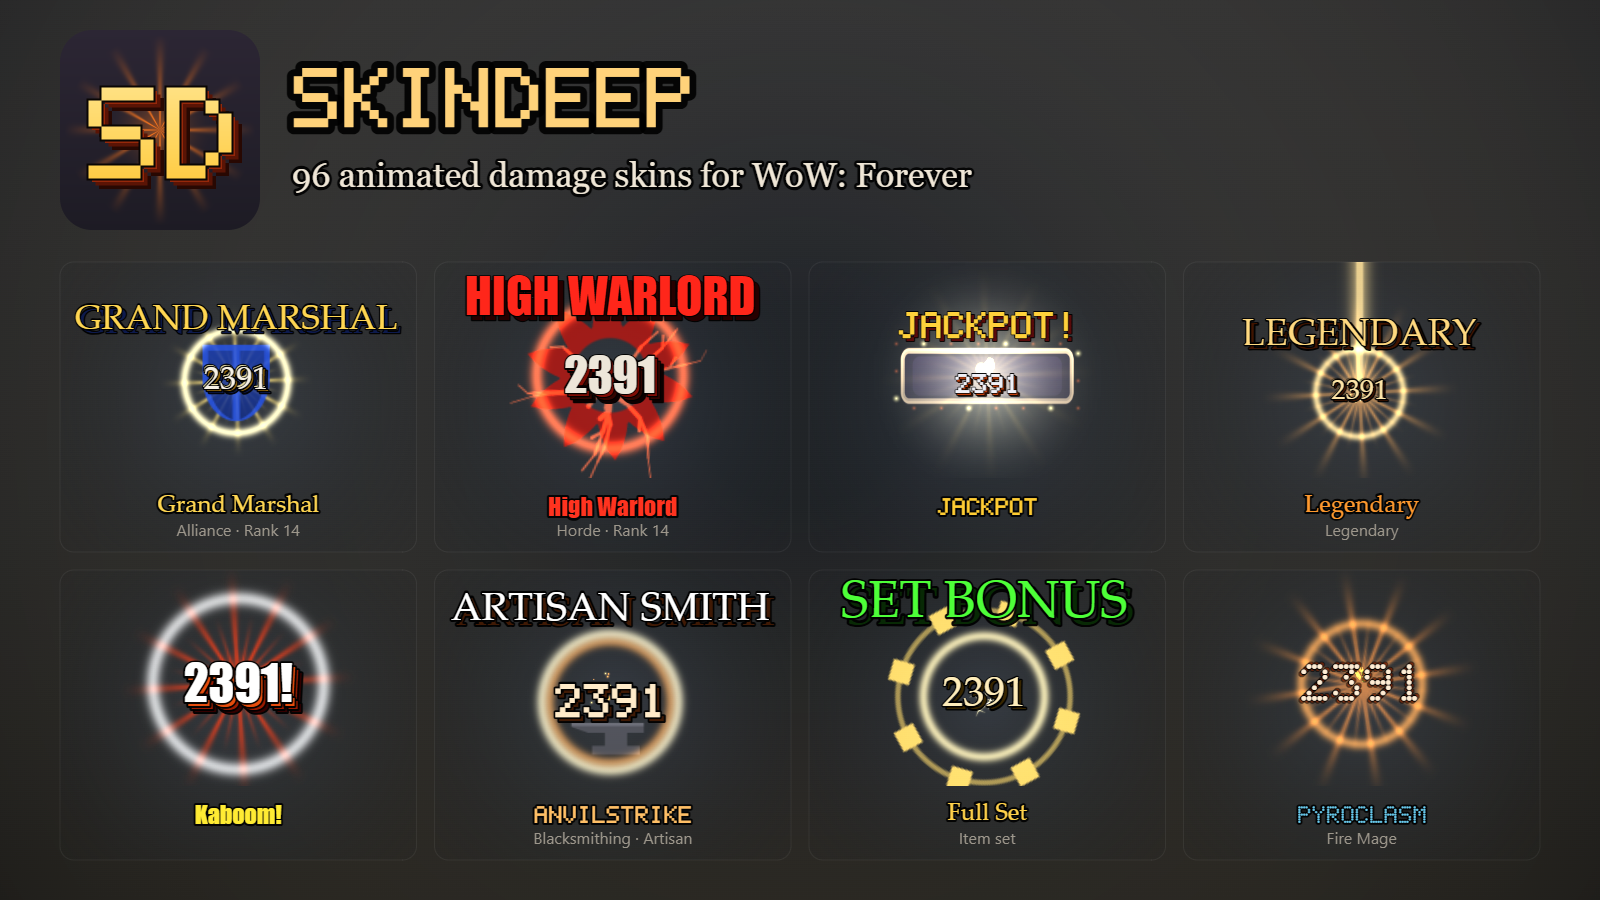
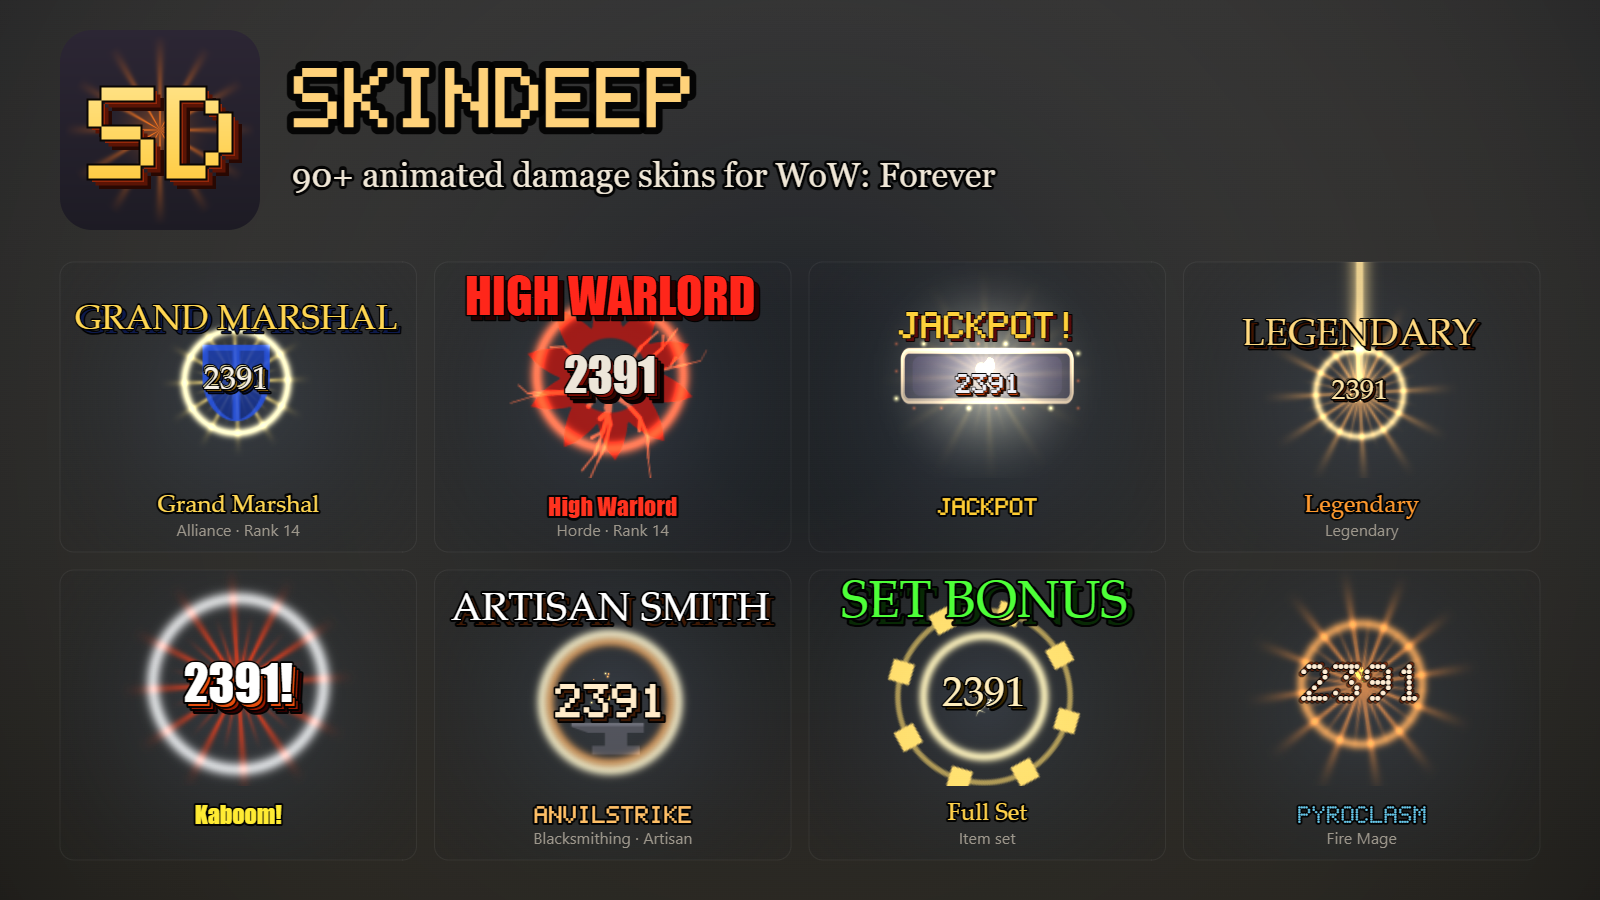
Skin sharing: whisper by full name, hide not-found errors (1.2.1)
Forever addresses players as First-Surname and first names aren't
unique, so skin requests whispered to a first name often reached nobody
and the game printed "No player named ... is currently playing" for each
tooltip hovered. Requests now go to the full name (UnitFullName; replies
to the sender as given), only to your own faction, at most every five
minutes per player; the not-found line for SkinDeep's own whispers is
filtered from chat and that player is left alone for ten minutes. Peers
are kept by full name and found by first name only when it's unique.

Showcase cover now says 90+ skins. Changelog for 1.2.1.

Changed region(s): [[0.1875, 0.1556, 0.625, 0.2178]]

diff --git a/tools/showcase.html b/tools/showcase.html
@@ -168,7 +168,7 @@ const IMAGES = [
       backdrop(ctx);
       if (logo.complete) ctx.drawImage(logo, 60, 30, 200, 200);
       label(ctx, 'SkinDeep', 290, 100, 84, '"sd-SkinDeepBlockttf", Georgia, serif', '#ffd27a', 'left');
-      label(ctx, '96 animated damage skins for WoW: Forever', 292, 178, 34, 'Georgia, serif', '#efe6d6', 'left');
+      label(ctx, '90+ animated damage skins for WoW: Forever', 292, 178, 34, 'Georgia, serif', '#efe6d6', 'left');
       grid(ctx, ['grandmarshal', 'highwarlord', 'jackpot', 'legendary', 'comic', 'anvilstrike', 'fullset', 'mage_fire'], 4, 262, { nameSize: 24 });
   } },
   { name: '02-classes', draw(ctx) {

diff --git a/CHANGELOG.md b/CHANGELOG.md
@@ -1,5 +1,17 @@
 # SkinDeep
 
+## 1.2.1
+
+- **Skin sharing fix**: hovering players no longer fills chat with "No
+  player named ... is currently playing". SkinDeep now asks players by their
+  full name (first name and surname), only asks your own faction, asks the
+  same player at most every few minutes, and hides the game's not-found
+  line for its own requests.
+- `/skindeep peek` takes a full name (Haze-Grimm) when two SkinDeep users
+  share a first name.
+- Echo hits (Rampage, Stormstrike) land a little further from the first hit,
+  so they no longer overlap on crits.
+
 ## 1.2.0
 
 Collect your skins.
